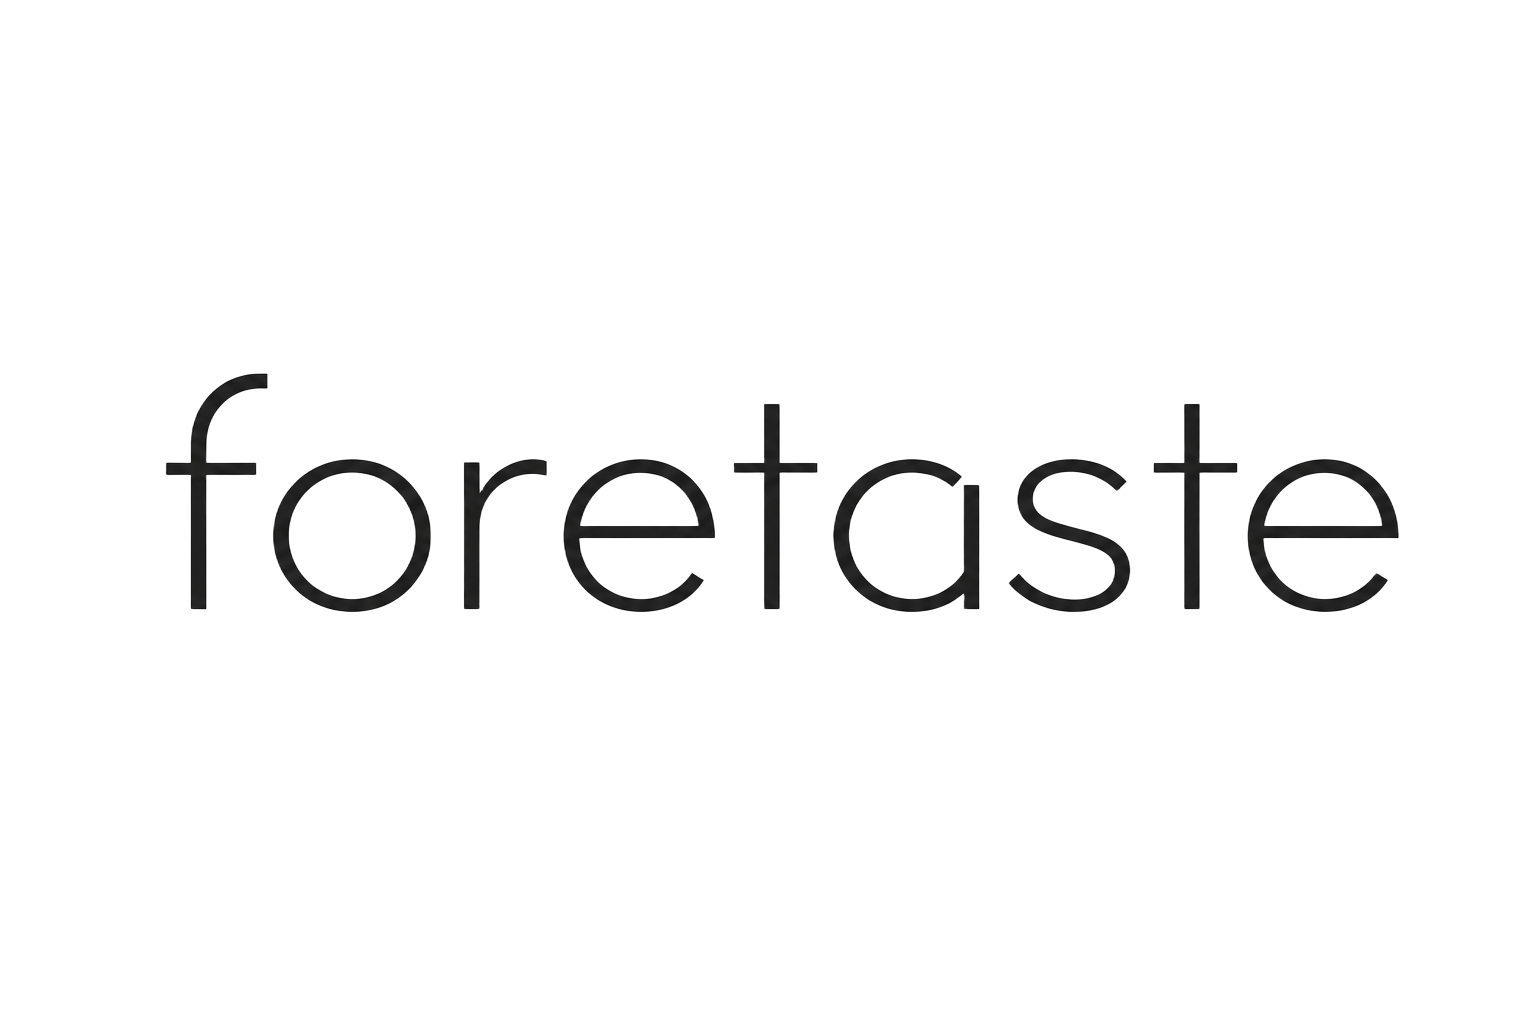
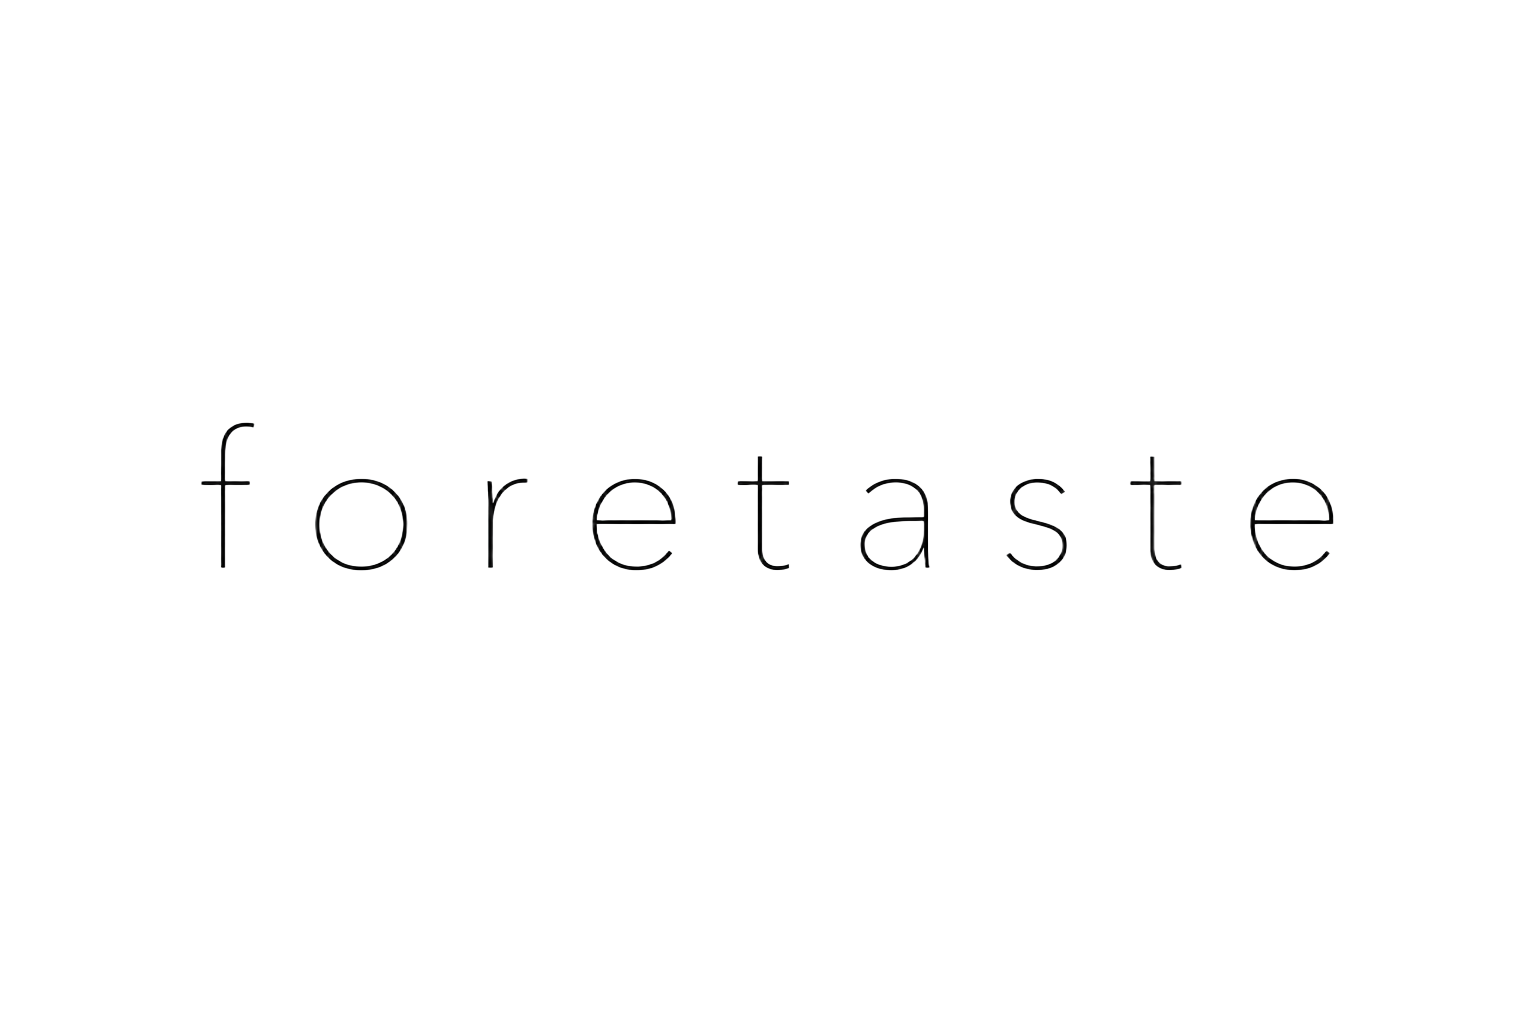
Changes

Changed region(s): [[0.0938, 0.3438, 0.9375, 0.5938]]

diff --git a/.lovable/plan.md b/.lovable/plan.md
@@ -1,55 +1,40 @@
-# Mini-sprint 2C-3 — Sender + PDF-content cross-verificatie leverancier
-
 ## Doel
-Pakbon wordt aan correcte leverancier gekoppeld via combinatie van sender-domein
-whitelist + AI-extractie van leverancier_naam uit PDF. Voorkomt mis-toewijzing
-zoals huidig probleem (Boer & Chef PDF van shouf.ai → toegewezen aan Bidfood).
+Het huidige auto-gegenereerde logo (rommelige dubbele "F" + ongelijke wordmark) vervangen door een verfijnd, **puur typografisch** Foretaste-logo in lowercase, Paper & Ink (zwart op off-white).
 
-## Beslismatrix (definitief, b1/b2/b3 split)
+## Aanpak
 
-| Scenario | Sender-matches | PDF-extractie | Actie | Warning |
-|----------|----------------|---------------|-------|---------|
-| **a**    | 1 match        | bevestigt sender | use sender | nee |
-| **b1**   | 1 match        | match onbekend (PDF naam unmatched) | use sender | nee |
-| **b2**   | 1 match        | matcht ANDERE bekende leverancier (HIGH-CONF) | **use PDF-match** | **JA** |
-| **b3**   | 1 match        | matcht andere maar LOW-CONF | use sender | ja (zwak) |
-| **c**    | meerdere       | matcht één van de kandidaten | use PDF-match | nee |
-| **d**    | meerdere       | matcht geen | use eerste sender-match | ja |
-| **e**    | 0 matches      | matcht bekende leverancier | use PDF-match | ja ("toegewezen via PDF") |
-| **f**    | 0 matches      | matcht geen | reject (huidige fallback) | n.v.t. |
+**Geen iconisch monogram.** Het logo wordt één samenhangend wordmark — Aesop/Apple-stijl. De `NestoLogo`-component houdt z'n drie render-modes (icon-only / wordmark-only / lockup), maar:
 
-## High-confidence threshold (PDF-naam → leverancier)
-HIT wanneer:
-1. Exact normalized match (lowercase + strip "B.V."/"BV"/punct/whitespace), OF
-2. Token-set overlap ≥ 80% (jaccard op woord-tokens), OF
-3. Substring beide kanten (een naam zit in de andere)
+- **Wordmark** → nieuwe verfijnde "foretaste" PNG (dunne moderne sans, ruime letter-spacing, perfect uitgelijnd op baseline, geen rare schreven of dubbele lijnen).
+- **Icon-only** (gebruikt in ingeklapte sidebar) → losse kleine "f" in **dezelfde** letter als de wordmark, zodat het cohesief blijft zonder een apart monogram te verzinnen.
+- **Lockup** → identiek aan de wordmark (geen icoon ervoor, want richting = puur wordmark).
 
-Anders MISS. Hard threshold voorkomt fuzzy-chaos.
+## Stappen
 
-## Logging per pakbon
-```
-[leverancier-decision] receipt=<id> scenario=<a|b1|b2|b3|c|d|e|f>
-  sender_matches=[id1,id2] sender_names=[X,Y]
-  pdf_name="<naam>" pdf_match_id=<id|null> pdf_match_name=<X|null>
-  chosen=<id> chosen_name=<X> warning=<true|false>
-```
+1. **Genereer 3 nieuwe assets** met `imagegen` (premium tier voor scherpe typografie):
+   - `src/assets/foretaste-wordmark.png` — "foretaste" lowercase, dunne moderne sans (Söhne/Inter-achtig), zwart `#0d0d0d`, transparante achtergrond
+   - `src/assets/foretaste-mark.png` — losse kleine "f" in dezelfde letter (voor collapsed sidebar)
+   - `src/assets/foretaste-lockup.png` — dezelfde wordmark (lockup = wordmark bij deze richting)
 
-## Build-volgorde
-1. DB-migration: `pakbon_email_intake.sender_match_leverancier_ids uuid[]`,
-   `goods_receipts.leverancier_warning bool`, `leverancier_warning_reason text`
-2. `receive-pakbon-email`: sender match → array (limit 10), geen hard reject,
-   pass kandidaten door naar parse-pakbon
-3. `parse-pakbon`: helpers + beslismatrix + logging + DB-update
-4. View `goods_receipts_chef_inbox` aanvullen met warning-velden
-5. `useGoodsReceipts` row-type aanvullen
-6. `LeveringCard.tsx`: oranje "⚠ Check leverancier" pill
-7. Detail-page: prominente warning-banner bovenaan
-8. Cleanup-migration receipt 6f1914d6 → Boer & Chef
-9. Deploy beide edge functions
-10. Smoke-test 5 scenarios
+2. **Update `src/components/polar/NestoLogo.tsx`**:
+   - Import `foretaste-mark.png` i.p.v. de oude "F"-icoon
+   - Lockup-mode toont nu enkel wordmark (geen icoon meer ernaast)
+   - Hoogte-maps lichtjes herijken zodat het wordmark optisch even zwaar oogt als het vorige lockup
 
-## Niet in scope (Ronde 3)
-- Concept-status voor scenario (f) ipv hard reject
-- Manager-UI voor warning-pakbonnen review
-- Auto-leerproces (sender_domain toevoegen na bevestigde PDF-match)
-- Bulk-correctie tools
+3. **Oude assets niet verwijderen** — alleen niet meer importeren (veilig, geen broken refs).
+
+## Visuele richtlijn voor de generator
+- Letters: lowercase, dun gewicht (300), royale tracking
+- Baseline strak, geen versierde uiteinden
+- Pure `#0d0d0d` op transparant, geen schaduw/gradient
+- Compositie gecentreerd met ruime marges (geen clipping)
+
+## QA voor "klaar"
+- Screenshot sidebar uitgeklapt (wordmark zichtbaar)
+- Screenshot sidebar ingeklapt (alleen "f"-mark zichtbaar)
+- Visueel checken: geen dubbele lijnen, geen rare uitlopers, letters consistent zwaar
+
+## Out of scope
+- Geen kleur-tokens wijzigen
+- Geen nieuwe `Foretaste`-branding in copy/teksten (alleen logo-assets)
+- Geen wijziging aan `NestoLogo` API/props
